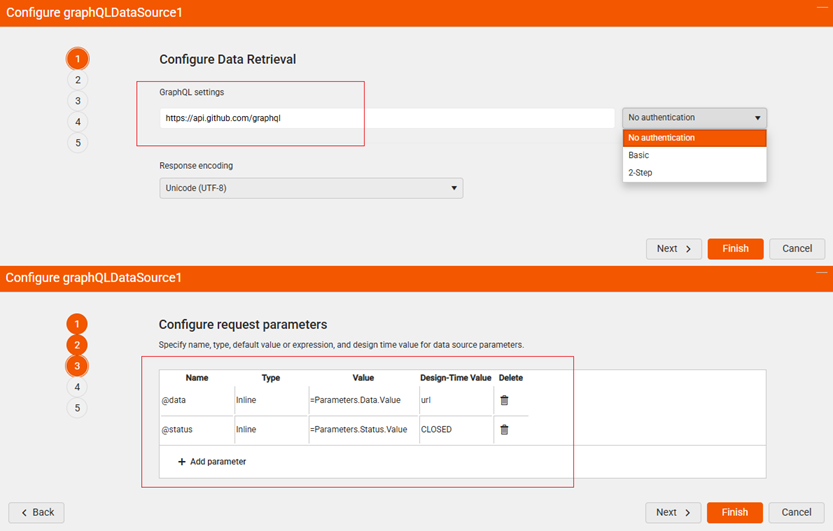
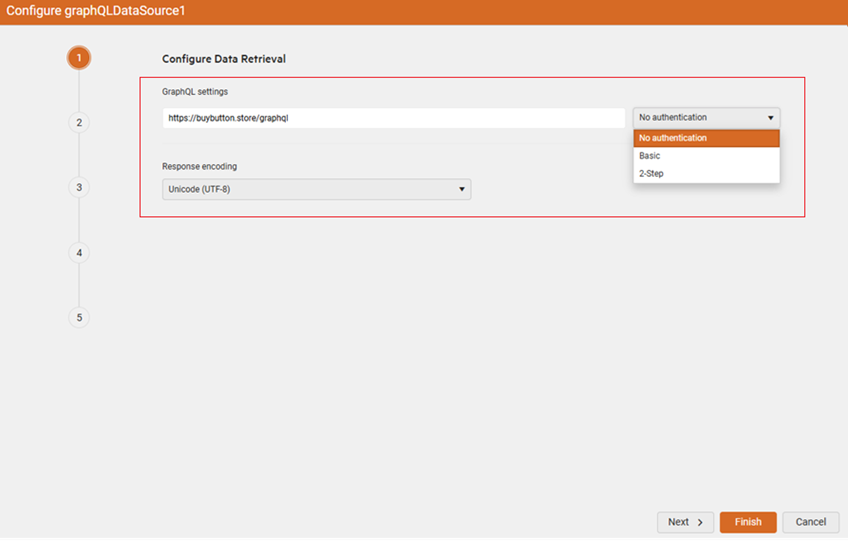
Polish the GraphQL docs

diff --git a/designing-reports/report-designer-tools/web-report-designer/user-guide/components/data-sources.md b/designing-reports/report-designer-tools/web-report-designer/user-guide/components/data-sources.md
@@ -133,7 +133,6 @@ If you want to skip the further settings steps, click the `Finish` button to con
 
 ![Preview Web Service Data ><](images/wrd-components-tray-data-sources-preview-web-service-data-source.png)
 
-
 ## GraphQL Data Source
 
 By clicking the `GraphQL Data Source` item in the **Components** tray, the [GraphQL Data Source configuration wizard]({%slug desktop-graphqldatasource-wizard%}) appears allowing you to create new or edit an existing [GraphQLDataSource]({%slug graphqldatasource%}) component.
@@ -143,9 +142,46 @@ The wizard allows you to setup one of the options:
 * Reference an external data file.
 * Use inline data string containing the data (required if Service URL or external data file is not set).
 
->caption Setup GraphQL Request with Parameters
+|Wizard step|Description|
+|----|----|
+|1. |.|
+|2. |.|
+|3. |.|
+|4. |.|
+|5. |.| 
 
-![GraphQL Data Source><](images/wrd-components-tray-data-sources-graphql-data-source-http-request.png)  
+The following screenshots illustrates how to setup the **GraphQL Service URL** (e.g. https://buybutton.store/graphql) and a sample **query** for data retrieval:
+
+```SQL
+query paginateProducts($cursor: String) {
+  site {
+    products(first: 5, after: $cursor) {
+      pageInfo {
+        endCursor
+        hasNextPage
+      }
+      edges {
+        node {
+          entityId
+          name
+        }
+      }
+    }
+  }
+}
+```
+
+>caption Setup GraphQL Service URL and Configure the Query
+
+![GraphQL Data Source><](images/wrd-components-tray-data-sources-graphql-data-source-http-request-query.png)  
+
+The wizard allows you to specify the parameter name, type, value and design time value for each data source parameter. The value can be a default value or an expression to evaluate. The design-time value should be a constant value. This is necessary for retrieving the data source schema correctly at design time:
+
+![GraphQL Request Parameters><](images/wrd-components-tray-data-sources-graphql-request-parameters.png)   
+
+As a final step, you can **Preview** the result:
+
+![GraphQL Preview Data><](images/wrd-components-tray-data-sources-graphql-preview-data.png)   
 
 ## JSON Data Source 
 
@@ -185,6 +221,16 @@ By clicking the `Object Data Source` item in the **Components** tray, the [Objec
 >caption Preview Data 
 
 ![Preview Data from Object Data Source ><](images/wrd-components-tray-data-sources-object-data-source-preview.png)  
+
+## Data Source General Settings
+
+Once a DataSource component is configured, it can be modified later by selecting it in the **Explorer** tab:
+
+![GraphQL Data Source Settings><](images/wrd-components-tray-data-sources-graphql-data-source-selected-in-explorer.png)    
+
+On the right-hand side the **General** settings (dependent on the specific Data Source item) are loaded and the user can further modify them:
+
+![GraphQL Data Source Settings><](images/wrd-components-tray-data-sources-graphql-data-source-settings.png)   
 
 ## See Also
 
